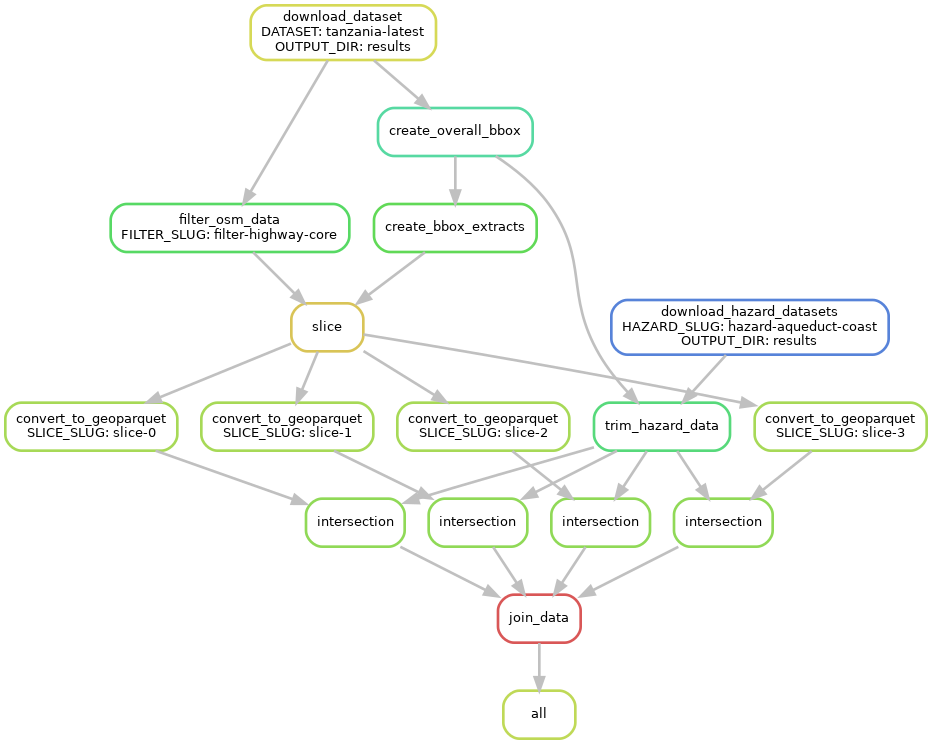
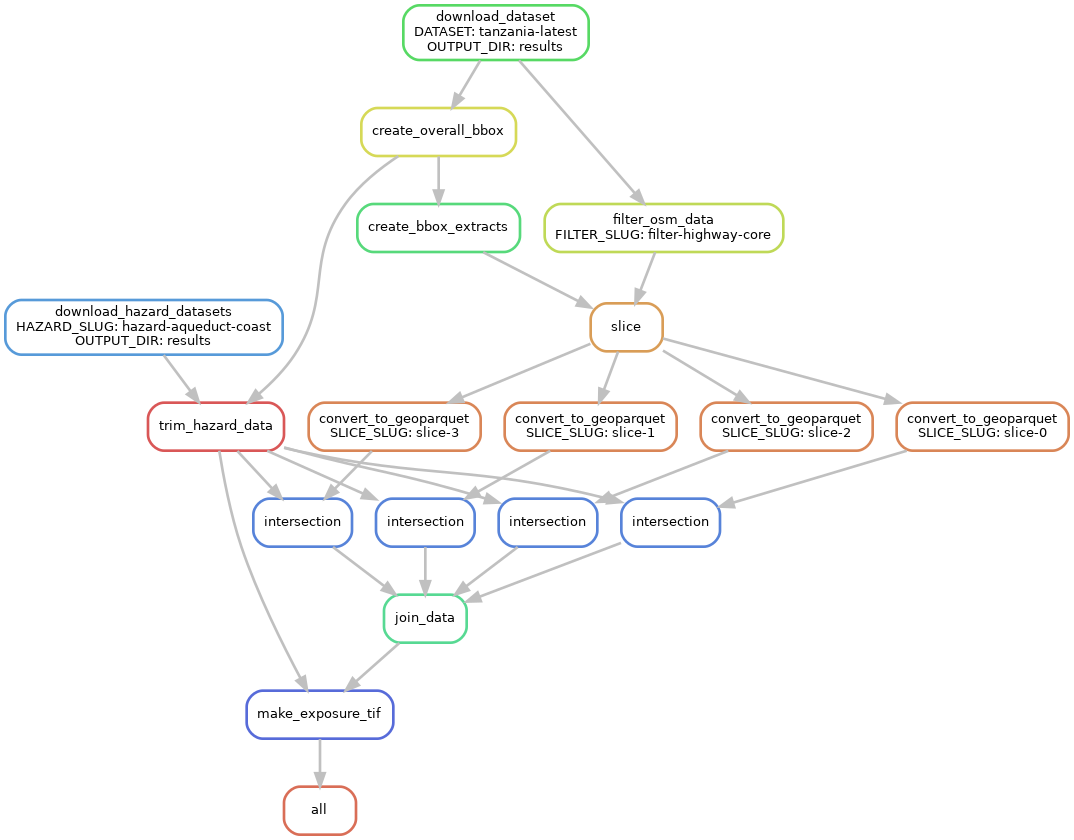
documentation

Changed region(s): [[0.0, 0.0, 1.0, 1.0], [0.28, 0.1855, 0.3112, 0.2164], [0.0933, 0.2782, 0.1245, 0.3091]]

diff --git a/docs/src/user-guide/outputs/join.md b/docs/src/user-guide/outputs/join.md
@@ -1,6 +1,6 @@
 # Join data
 
-Finally, the split data files are reunited to produce a .geoparquet file 
+The split data files are reunited to produce a .geoparquet file 
 that contains infrastructure-hazard information for 
 each combination of infrastructure and hazard datasets.
 These files are placed directly in `./results/`.
@@ -58,12 +58,3 @@ In the example below I've chosen somewhat arbitrary colours for different flood 
 Here's an example of the same zoomed in on Dar es Salaam.
 ![QGIS mapping of Dar es Salaam under extreme flooding.](../../img/QGIS-all_zoom.png)
 
-## Further analysis
-
-Now you've worked through an example of the open-gira workflow, 
-and you have an understanding of the relevant file formats, how the process works, 
-and how to inspect things as you go along, you're ready to use open-gira
-for your own work.
-Find an OSM datafile to work with, slice it up, and intersect some hazard data.
-The resulting .geopandas data can be manipulated to answer particular questions, 
-or further combined with different spatial information or other open-gira outputs.

diff --git a/docs/src/user-guide/outputs/exposure.md b/docs/src/user-guide/outputs/exposure.md
@@ -1,0 +1,17 @@
+# Exposure rasters
+
+The .geoparquet file containing all the line and flood data can be used to
+generate spatial summary information about the hazard-infrastructure intersection.
+In this step, a raster file is produced that shows areas exposed to heavy flooding
+graded by the amount of road in them.
+
+The steps involved are:
+- filter the .geoparquet to remove all rows with flood depth less than `exposure_threshold` m
+  (`exposure_threshold` is defined in the [config file](../configuration.md))
+- group road segments by cell index and calculate their total length (in km)
+- load the original hazard raster file, e.g.
+  `./results/input/hazard-aqueduct-river/tanzania-mini/inunriver_rcp4p5_MIROC-ESM-CHEM_2030_rp00100.tif`
+- create a copy of that file at
+  `./results/exposure/tanzania-mini_filter-highway-core/hazard-aqueduct-river/exposure_inunriver_rcp4p5_MIROC-ESM-CHEM_2030_rp00100.tif`
+- replace the flood info band with a road length info band 
+  (0 for any cell with less than `exposure_depth` of flooding)

diff --git a/README.md b/README.md
@@ -147,6 +147,9 @@ The pipeline consists in the following steps:
     infrastructure and associated hazard level values for each combination of
     OSM dataset and hazard dataset. This results in
     `<output_dir>/<dataset>_filter-<filters>_hazard-<hazard>.geoparquet`.
+11. Each .geoparquet file is processed to produce a .tif raster file showing the length
+    of road affected by flooding greater than a threshold defined in the config.
+    These files are saved as `<output_dir>/exposure/<dataset>_filter-<filters>/hazard-<hazard>/exposure_<hazard_tif_filename>`
 
 This is a directional acyclic graph (DAG) of a simplified version of the workflow
 that uses just one OSM dataset, one hazard dataset, and one slice:

diff --git a/config/README.md b/config/README.md
@@ -22,6 +22,9 @@ slice boundaries, so too high a number can lead to redundancy.
 - `keep_tags`: Osmium tags to preserve in .geoparquet file.
 - `osmium_tags_filters_file`: File containing the OSM attributes to filter the input data
 
+- `exposure_threshold`: Minimum depth of flooding (m) for a cell to have its 
+  road lengths included in the exposure raster files
+
 Modifying the configuration file will *not* trigger a re-run of the pipeline by
 snakemake. If you wish to rerun the whole pipeline after altering the
 configuration, use 

diff --git a/docs/src/user-guide/further-analysis.md b/docs/src/user-guide/further-analysis.md
@@ -1,0 +1,9 @@
+# Further analysis
+
+Now you've worked through an example of the open-gira workflow, 
+and you have an understanding of the relevant file formats, how the process works, 
+and how to inspect things as you go along, you're ready to use open-gira
+for your own work.
+Find an OSM datafile to work with, slice it up, and intersect some hazard data.
+The resulting .geopandas data can be manipulated to answer particular questions, 
+or further combined with different spatial information or other open-gira outputs.

diff --git a/docs/src/SUMMARY.md b/docs/src/SUMMARY.md
@@ -21,5 +21,7 @@
   - [Convert to GeoParquet](user-guide/outputs/geoparquet.md)
   - [Intersect infrastructure and hazard data](user-guide/outputs/intersect.md)
   - [Join slices](user-guide/outputs/join.md)
+  - [Generate exposure rasters](user-guide/outputs/exposure.md)
+- [Further analysis](user-guide/further-analysis.md)
 - [Cleaning output](user-guide/clean.md)
 - [Workflow (_advanced_)](user-guide/workflow-advanced.md)

diff --git a/docs/src/user-guide/configuration.md b/docs/src/user-guide/configuration.md
@@ -24,6 +24,8 @@ slice_count: 36
 keep_tags: 'highway'
 # Filters definition -- base filename is used as the filter name
 osmium_tags_filters_file: "config/highway-core.txt"
+
+exposure_threshold: 0.5  # minimum flood depth (m) for inclusion in exposure rasters
 ```
 
 You should also have a `./config/highway-core.txt` file that looks like:
